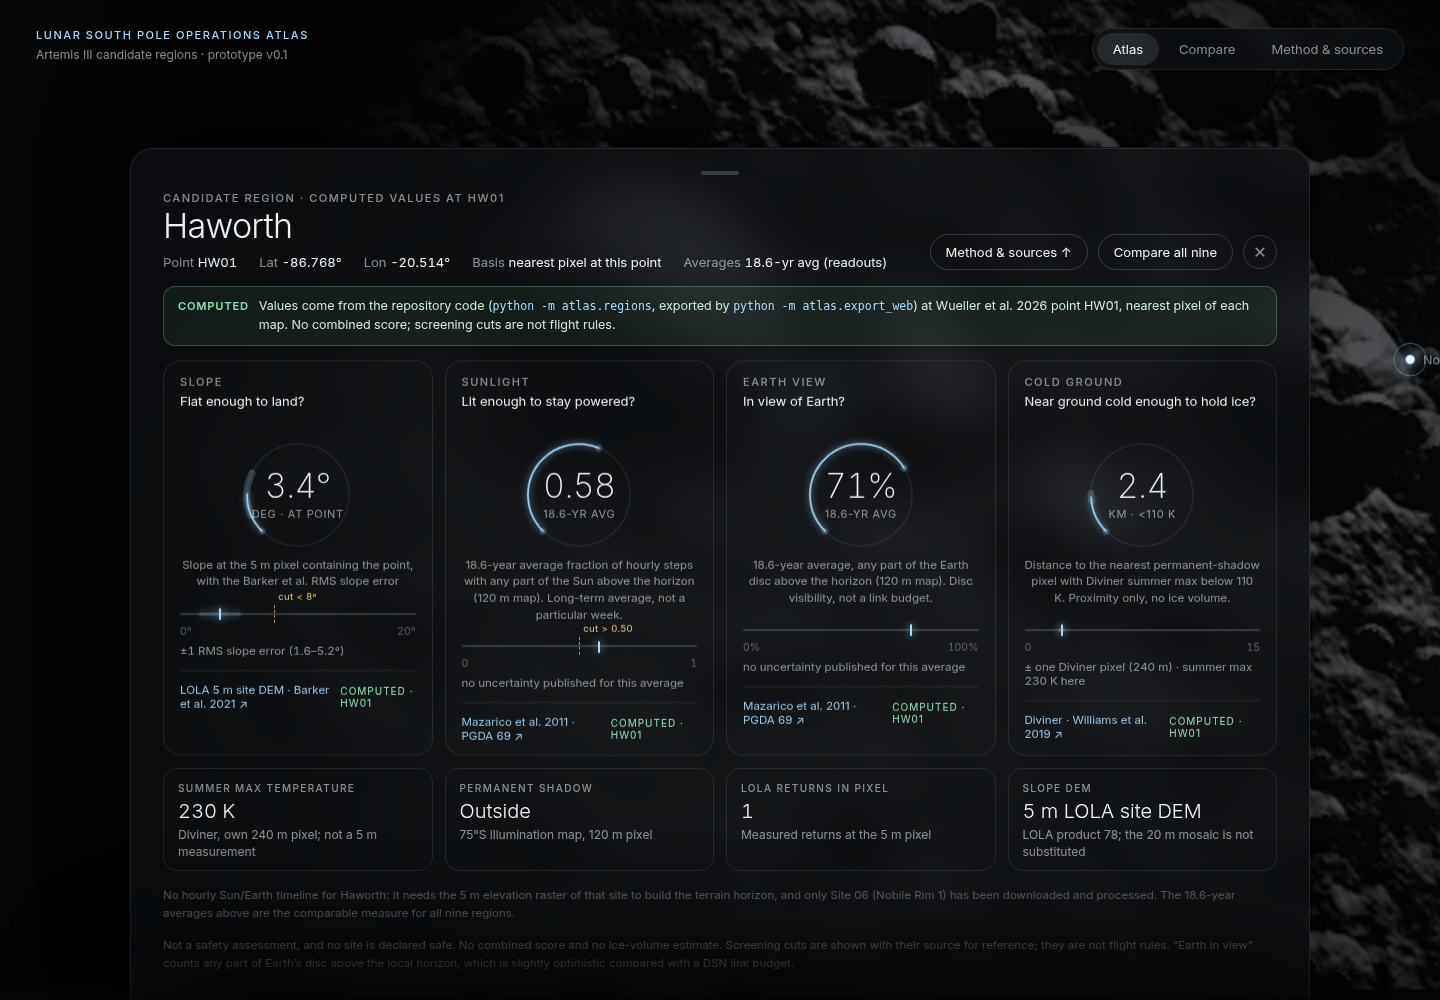
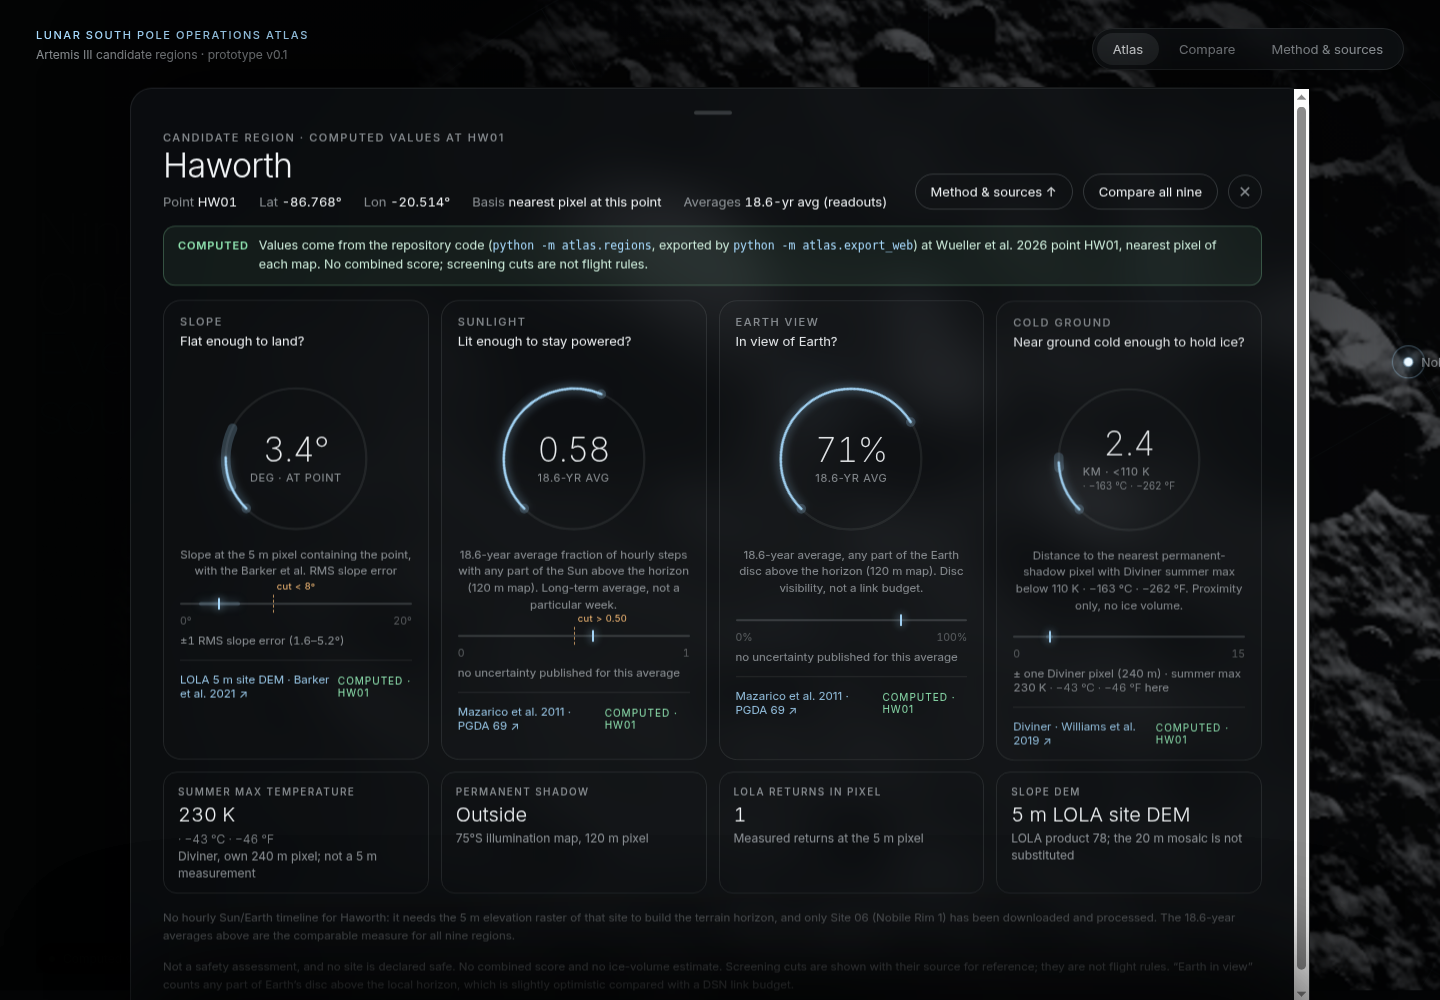
web: show °C and °F beside every kelvin value; enlarge dials
Add units.js display helper (K primary, muted C/F), apply to cards, compare
table, cold-ground dial and 110 K threshold, add node test, enlarge dial
rings for padding, regenerate screenshots.

diff --git a/moon-south-pole-atlas/web/index.html b/moon-south-pole-atlas/web/index.html
@@ -88,6 +88,10 @@ body.sheet-open .foot{opacity:0}
 .extra{border:1px solid var(--line);border-radius:14px;padding:10px 14px;font-size:12px;color:var(--mute);line-height:1.45}
 .extra b{display:block;font-weight:300;font-size:20px;color:var(--ink);font-variant-numeric:tabular-nums}
 .extra .label{font-size:10px}
+.conv{color:var(--mute);font-weight:300}
+.extra b .conv{display:block;font-size:12px;margin-top:1px}
+.ring .val .u .conv{display:block;margin-top:1px;letter-spacing:.02em;font-size:10px}
+td .conv{display:block;font-size:12px;white-space:nowrap}
 .na{color:#ffc27a}
 .dial.missing .ring{opacity:.45}
 .dials{display:grid;grid-template-columns:repeat(4,1fr);gap:12px;margin-top:14px}
@@ -96,9 +100,9 @@ body.sheet-open .foot{opacity:0}
 .sheet.open .dial:nth-child(2){transition-delay:.06s}.sheet.open .dial:nth-child(3){transition-delay:.12s}.sheet.open .dial:nth-child(4){transition-delay:.18s}
 .dial:hover{border-color:var(--line2)}
 .dial .q{font-size:13px;color:var(--ink);margin-top:4px;font-weight:400}
-.ring{position:relative;width:116px;height:116px;margin:10px auto 4px}
+.ring{position:relative;width:160px;height:160px;margin:12px auto 8px}
 .ring svg{width:100%;height:100%;transform:rotate(135deg)}
-.ring .val{position:absolute;inset:0;display:flex;flex-direction:column;align-items:center;justify-content:center}
+.ring .val{position:absolute;inset:0;padding:0 22px;display:flex;flex-direction:column;align-items:center;justify-content:center}
 .ring .val .n{font-size:34px;line-height:1}
 .ring .val .u{font-size:11px;color:var(--mute);margin-top:4px;letter-spacing:.06em}
 .ring circle{fill:none;stroke-linecap:round;transition:stroke-dasharray 1.1s var(--ease),stroke-dashoffset 1.1s var(--ease)}
@@ -199,7 +203,7 @@ body.layer-open .scrim{opacity:1;pointer-events:auto}
   .nav .long{display:none}
   .brand .label{max-width:150px;line-height:1.4}
 }
-@media (max-width:520px){.dials,.extras{grid-template-columns:1fr}.ring{width:116px;height:116px}.nav button{padding:7px 11px}}
+@media (max-width:520px){.dials,.extras{grid-template-columns:1fr}.ring{width:172px;height:172px}.nav button{padding:7px 11px}}
 @media (prefers-reduced-motion:reduce){*{transition-duration:.01s!important;animation:none!important}}
 </style>
 </head>
@@ -287,7 +291,7 @@ body.layer-open .scrim{opacity:1;pointer-events:auto}
       <div class="box"><h4>Slope</h4><p>Slope in degrees at the 5&nbsp;m pixel containing the point, from the LOLA product-78 site DEM (Barker et al. 2021). The ± is one published RMS slope error for that pixel. Three regions have no 5&nbsp;m tile and show no slope; the 20&nbsp;m mosaic is not substituted. Where the LOLA return count at the pixel is 0, the slope is interpolated.</p></div>
       <div class="box"><h4>Sunlight</h4><p>18.6-year average fraction of hourly steps with any part of the Sun above the horizon, from the 75°S illumination map (Mazarico et al. 2011, 120&nbsp;m pixel, nearest pixel to the point). It is a long-term average, not the sunlight in a particular week, and has no published error bar.</p></div>
       <div class="box"><h4>Earth view</h4><p>Same map family and averaging period: the 18.6-year average fraction of hours with <em>any part</em> of Earth’s disc above the horizon. Disc visibility, not a DSN link budget. For NR101 only, the hourly timeline on its card is a separate 14-day product, and its window percentages are labelled as such.</p></div>
-      <div class="box"><h4>Cold ground</h4><p>Distance from the point to the nearest permanent-shadow pixel (120&nbsp;m) whose Diviner summer-maximum temperature is below 110&nbsp;K (Williams et al. 2019, 240&nbsp;m pixel). Searched within 40&nbsp;km beyond the nine points. The ± is one Diviner pixel, a resolution bound, not a statistical error. Proximity only; no ice-volume estimate.</p></div>
+      <div class="box"><h4>Cold ground</h4><p>Distance from the point to the nearest permanent-shadow pixel (120&nbsp;m) whose Diviner summer-maximum temperature is below <span data-kelvin="110"></span> (Williams et al. 2019, 240&nbsp;m pixel). Searched within 40&nbsp;km beyond the nine points. The ± is one Diviner pixel, a resolution bound, not a statistical error. Proximity only; no ice-volume estimate.</p></div>
     </div>
 
     <h3>What is computed in this build</h3>
@@ -333,6 +337,7 @@ body.layer-open .scrim{opacity:1;pointer-events:auto}
   </div>
 </section>
 
+<script src="units.js"></script>
 <script src="data/regions.js"></script>
 <script src="data/nr101.js"></script>
 <script>
@@ -501,10 +506,10 @@ const DEF={
  slope:{lab:'Slope',q:'Flat enough to land?',unit:'DEG · AT POINT',min:0,max:20,dec:1,suf:'°',def:'Slope at the 5 m pixel containing the point, with the Barker et al. RMS slope error',src:'LOLA 5 m site DEM · Barker et al. 2021',href:'https://pgda.gsfc.nasa.gov/products/78',cut:()=>cuts.on?{v:cuts.slope,t:'cut < '+cuts.slope+'°'}:null},
  sun:{lab:'Sunlight',q:'Lit enough to stay powered?',unit:'18.6-YR AVG',min:0,max:1,dec:2,suf:'',def:'18.6-year average fraction of hourly steps with any part of the Sun above the horizon (120 m map). Long-term average, not a particular week.',src:'Mazarico et al. 2011 · PGDA 69',href:'https://pgda.gsfc.nasa.gov/products/69',cut:()=>cuts.on?{v:cuts.ill,t:'cut > '+cuts.ill.toFixed(2)}:null},
  earth:{lab:'Earth view',q:'In view of Earth?',unit:'18.6-YR AVG',min:0,max:100,dec:0,suf:'%',def:'18.6-year average, any part of the Earth disc above the horizon (120 m map). Disc visibility, not a link budget.',src:'Mazarico et al. 2011 · PGDA 69',href:'https://pgda.gsfc.nasa.gov/products/69',cut:()=>null},
- cold:{lab:'Cold ground',q:'Near ground cold enough to hold ice?',unit:'KM · <110 K',min:0,max:15,dec:1,suf:'',def:'Distance to the nearest permanent-shadow pixel with Diviner summer max below 110 K. Proximity only, no ice volume.',src:'Diviner · Williams et al. 2019',href:'https://doi.org/10.1029/2019JE006028',cut:()=>null}
+ cold:{lab:'Cold ground',q:'Near ground cold enough to hold ice?',unit:'KM · <110 K',unitHTML:()=>'KM · &lt;'+Units.kHTML(110),min:0,max:15,dec:1,suf:'',def:'Distance to the nearest permanent-shadow pixel with Diviner summer max below '+Units.kText(110)+'. Proximity only, no ice volume.',src:'Diviner · Williams et al. 2019',href:'https://doi.org/10.1029/2019JE006028',cut:()=>null}
 };
 const CIRC=2*Math.PI*58, ARC=CIRC*0.75;
-const NA_WHY={slope:s=>s.q.slope_source,sun:()=>'The 75°S illumination map has no value at this point.',earth:()=>'The 75°S illumination map has no value at this point.',cold:()=>'No permanent-shadow pixel below 110 K was found within the search window.'};
+const NA_WHY={slope:s=>s.q.slope_source,sun:()=>'The 75°S illumination map has no value at this point.',earth:()=>'The 75°S illumination map has no value at this point.',cold:()=>'No permanent-shadow pixel below '+Units.kText(110)+' was found within the search window.'};
 function renderDials(){
   const s=cur;
   for(const k of ['slope','sun','earth','cold']){const d=DEF[k],v=s[k],el=$(`.dial[data-k="${k}"]`);
@@ -524,7 +529,7 @@ function renderDials(){
     el.classList.remove('missing');
     const lo=Math.min(v.lo,v.hi),hi=Math.max(v.lo,v.hi);
     const f=x=>Math.max(0,Math.min(1,(x-d.min)/(d.max-d.min)));
-    el.querySelector('.n').textContent=v.v.toFixed(d.dec)+d.suf; el.querySelector('.u').textContent=d.unit;
+    el.querySelector('.n').textContent=v.v.toFixed(d.dec)+d.suf; el.querySelector('.u').innerHTML=d.unitHTML?d.unitHTML():d.unit;
     el.querySelector('.def').textContent=d.def;
     arc.style.strokeDasharray=`${ARC*f(v.v)} ${CIRC}`;
     unc.style.strokeDasharray=`0 ${ARC*f(lo)} ${ARC*(f(hi)-f(lo))} ${CIRC}`;
@@ -534,10 +539,10 @@ function renderDials(){
     const ends=el.querySelectorAll('.ends span'); ends[0].textContent=d.min+d.suf; ends[1].textContent=d.max+d.suf;
     let rt=v.unc;
     if(k==='slope')rt+=` (${lo.toFixed(1)}–${hi.toFixed(1)}°)`+(s.q.interpolated_gap?' · return count 0: interpolated, not measured':'');
-    if(k==='cold')rt+=` · summer max ${s.q.summer_max_temperature_k.toFixed(0)} K here`;
+    if(k==='cold')rt+=` · summer max ${Units.kHTML(s.q.summer_max_temperature_k)} here`;
     if(s.series&&k==='sun')rt+=` · NR101 14-day window, ${height} m: ${s.winSun.toFixed(0)}% of hours (separate product)`;
     if(s.series&&k==='earth')rt+=` · NR101 14-day window, ${height} m: ${s.winEarth.toFixed(0)}% of hours (separate product)`;
-    el.querySelector('.rng').textContent=rt;
+    el.querySelector('.rng').innerHTML=rt;
     tg.textContent='Computed · '+s.q.point_id; tg.style.color='#8fe3b0';
   }
   renderExtras();
@@ -545,7 +550,7 @@ function renderDials(){
 const pl=x=>x?x.replace(/\.0+ m/,' m'):x;
 function renderExtras(){
   const q=cur.q, ex=[];
-  ex.push(['Summer max temperature',q.summer_max_temperature_k==null?'n/a':q.summer_max_temperature_k.toFixed(0)+' K','Diviner, own '+(q.temperature_resolution_m||0).toFixed(0)+' m pixel; not a 5 m measurement']);
+  ex.push(['Summer max temperature',q.summer_max_temperature_k==null?'n/a':Units.kHTML(q.summer_max_temperature_k),'Diviner, own '+(q.temperature_resolution_m||0).toFixed(0)+' m pixel; not a 5 m measurement']);
   ex.push(['Permanent shadow',q.permanent_shadow==null?'n/a':q.permanent_shadow?'Inside':'Outside','75°S illumination map, '+pl(q.permanent_shadow_pixel_label)+' pixel']);
   ex.push(['LOLA returns in pixel',q.lola_return_count==null?'n/a':String(Math.round(q.lola_return_count)),q.lola_return_count==null?'Not computed: no 5 m tile contains this point':q.interpolated_gap?'0 = slope here is interpolated':'Measured returns at the 5 m pixel']);
   ex.push(['Slope DEM',pl(q.slope_dem_label)||'none','LOLA product 78; the 20 m mosaic is not substituted']);
@@ -653,7 +658,7 @@ function renderTable(){
     <td>${s.slope?s.slope.v.toFixed(1)+'°<small>±'+hs(s.slope).toFixed(1)+'</small>':na}</td>
     <td>${s.sun?s.sun.v.toFixed(2):na}</td>
     <td>${s.earth?s.earth.v.toFixed(0)+'%':na}</td>
-    <td>${s.q.summer_max_temperature_k==null?na:s.q.summer_max_temperature_k.toFixed(0)+' K'}</td>
+    <td>${s.q.summer_max_temperature_k==null?na:Units.kHTML(s.q.summer_max_temperature_k)}</td>
     <td>${s.cold?s.cold.v.toFixed(1)+' km<small>±'+hs(s.cold).toFixed(2)+'</small>':na}</td>
     <td style="font-size:12.5px">${cut}</td></tr>`;}).join('');
   $('#tbody').innerHTML=rows;
@@ -661,6 +666,7 @@ function renderTable(){
 }
 
 // ---------- init ----------
+$$("[data-kelvin]").forEach(e=>e.innerHTML=Units.kHTML(+e.dataset.kelvin));
 addEventListener('resize',()=>{layout();if(sel&&cur&&cur.series){sizeTL();setHour(hour);}segThumb();});
 layout(); shade(); draw(); segThumb(); syncCuts(); requestAnimationFrame(loop);
 const h=location.hash.slice(1);

diff --git a/moon-south-pole-atlas/web/test_units.js b/moon-south-pole-atlas/web/test_units.js
@@ -1,0 +1,21 @@
+// Run: node moon-south-pole-atlas/web/test_units.js
+const assert = require("assert"), fs = require("fs"), path = require("path");
+const U = require("./units.js");
+assert.strictEqual(U.kText(203), "203 K \u00b7 \u221270 \u00b0C \u00b7 \u221294 \u00b0F");
+assert.strictEqual(U.kText(110), "110 K \u00b7 \u2212163 \u00b0C \u00b7 \u2212262 \u00b0F");
+assert.strictEqual(U.kText(273.15), "273 K \u00b7 0 \u00b0C \u00b7 32 \u00b0F");
+assert.strictEqual(U.kText(300), "300 K \u00b7 27 \u00b0C \u00b7 80 \u00b0F");
+assert.ok(!U.kText(273.4).includes("\u22120"));
+// every kelvin value in the exported data converts and round-trips within rounding
+const data = JSON.parse(fs.readFileSync(path.join(__dirname, "data/regions.json"), "utf8"));
+let n = 0;
+for (const r of data.regions) {
+  const k = r.query ? r.query.summer_max_temperature_k : r.summer_max_temperature_k;
+  if (k == null) continue; n++;
+  assert.ok(Math.abs(U.toC(k) + 273.15 - k) < 1e-9);
+  assert.ok(Math.abs(U.toF(k) - (k - 273.15) * 1.8 - 32) < 1e-9);
+}
+// data files stay kelvin only
+for (const f of ["regions.json", "regions.js", "nr101.json", "nr101.js"])
+  assert.ok(!/celsius|fahrenheit|_degc|_degf|_c"|_f"/i.test(fs.readFileSync(path.join(__dirname, "data", f), "utf8")), f);
+console.log("units ok (" + n + " region temperatures checked)");

diff --git a/moon-south-pole-atlas/web/units.js b/moon-south-pole-atlas/web/units.js
@@ -1,0 +1,22 @@
+/* Temperature display helper. Data files stay in kelvin; this only formats for display.
+   C = K - 273.15, F = C*9/5 + 32, both rounded to whole degrees, with a true minus sign (U+2212). */
+(function (root) {
+  "use strict";
+  const MINUS = "\u2212";
+  const num = x => { const r = Math.round(x); return r === 0 ? "0" : (r < 0 ? MINUS + (-r) : String(r)); };
+  const toC = k => k - 273.15;
+  // Convert from the whole-kelvin value that is displayed, so the three numbers agree at a glance.
+  const shown = k => Math.round(k);
+  const toF = k => toC(k) * 9 / 5 + 32;
+  // Plain text: "203 K · −70 °C · −94 °F"
+  function kText(k, prefix) {
+    return (prefix || "") + num(k) + " K \u00b7 " + num(toC(shown(k))) + " \u00b0C \u00b7 " + num(toF(shown(k))) + " \u00b0F";
+  }
+  // HTML: kelvin primary, Celsius/Fahrenheit in a muted .conv span.
+  function kHTML(k, prefix) {
+    return (prefix || "") + num(k) + "&nbsp;K<span class=\"conv\"> \u00b7 " + num(toC(shown(k))) + "&nbsp;\u00b0C \u00b7 " + num(toF(shown(k))) + "&nbsp;\u00b0F</span>";
+  }
+  const api = { shown, toC, toF, num, kText, kHTML };
+  if (typeof module !== "undefined" && module.exports) module.exports = api;
+  else root.Units = api;
+})(typeof window !== "undefined" ? window : globalThis);

diff --git a/moon-south-pole-atlas/web/README.md b/moon-south-pole-atlas/web/README.md
@@ -31,6 +31,10 @@ Earlier prototype rows mixed 18.6-year averages (NR101) with 14-day means (examp
 
 Cold-ground distance for all nine rows is searched inside one window (the nine points plus 40 km), so rows are comparable. The ± on it is one Diviner pixel (240 m), a resolution bound, not a statistical error.
 
+## Temperature units
+
+Data files stay in kelvin only. `units.js` is a small display helper: every temperature (region cards, comparison table, cold-ground dial, method layer, the 110 K cold-shadow threshold) is shown as kelvin first, then a lighter muted Celsius and Fahrenheit, for example `203 K · −70 °C · −94 °F`. The whole-kelvin value shown is converted (C = K − 273.15, F = C × 9/5 + 32), rounded to whole degrees, with a true minus sign. Check it with `node moon-south-pole-atlas/web/test_units.js` (also asserts the data files contain no C/F fields).
+
 ## Regenerate the data
 
 From `moon-south-pole-atlas/`, with the packages in `requirements.txt` and the rasters and kernels in `data/raw/` (checksums in `data/MANIFEST.tsv`; the Diviner host needs the TLS workaround in `docs/data-sources.md`):
@@ -45,10 +49,10 @@ This writes `web/data/regions.json` and `nr101.json` (canonical) plus `.js` twin
 
 ## Screenshots
 
-`web/screenshots/`: `home.png`, `nr101-card.png` (with timeline), `haworth-card.png`, `cabeus-card-no-slope.png` (slope not computed), `compare.png`, `method.png`. Taken with headless Chrome:
+`web/screenshots/`: `home.png`, `nr101-card.png` (with timeline), `haworth-card.png`, `cabeus-card-no-slope.png` (slope not computed), `compare.png`, `method.png`. Taken with headless Chrome (the long virtual-time budget lets the card open animation finish):
 
 ```
-google-chrome --headless=new --window-size=1440,1000 --virtual-time-budget=6000 \
+google-chrome --headless=new --window-size=1440,1000 --virtual-time-budget=15000 \
   --screenshot=web/screenshots/compare.png "file://$PWD/web/index.html#compare"
 ```
 
